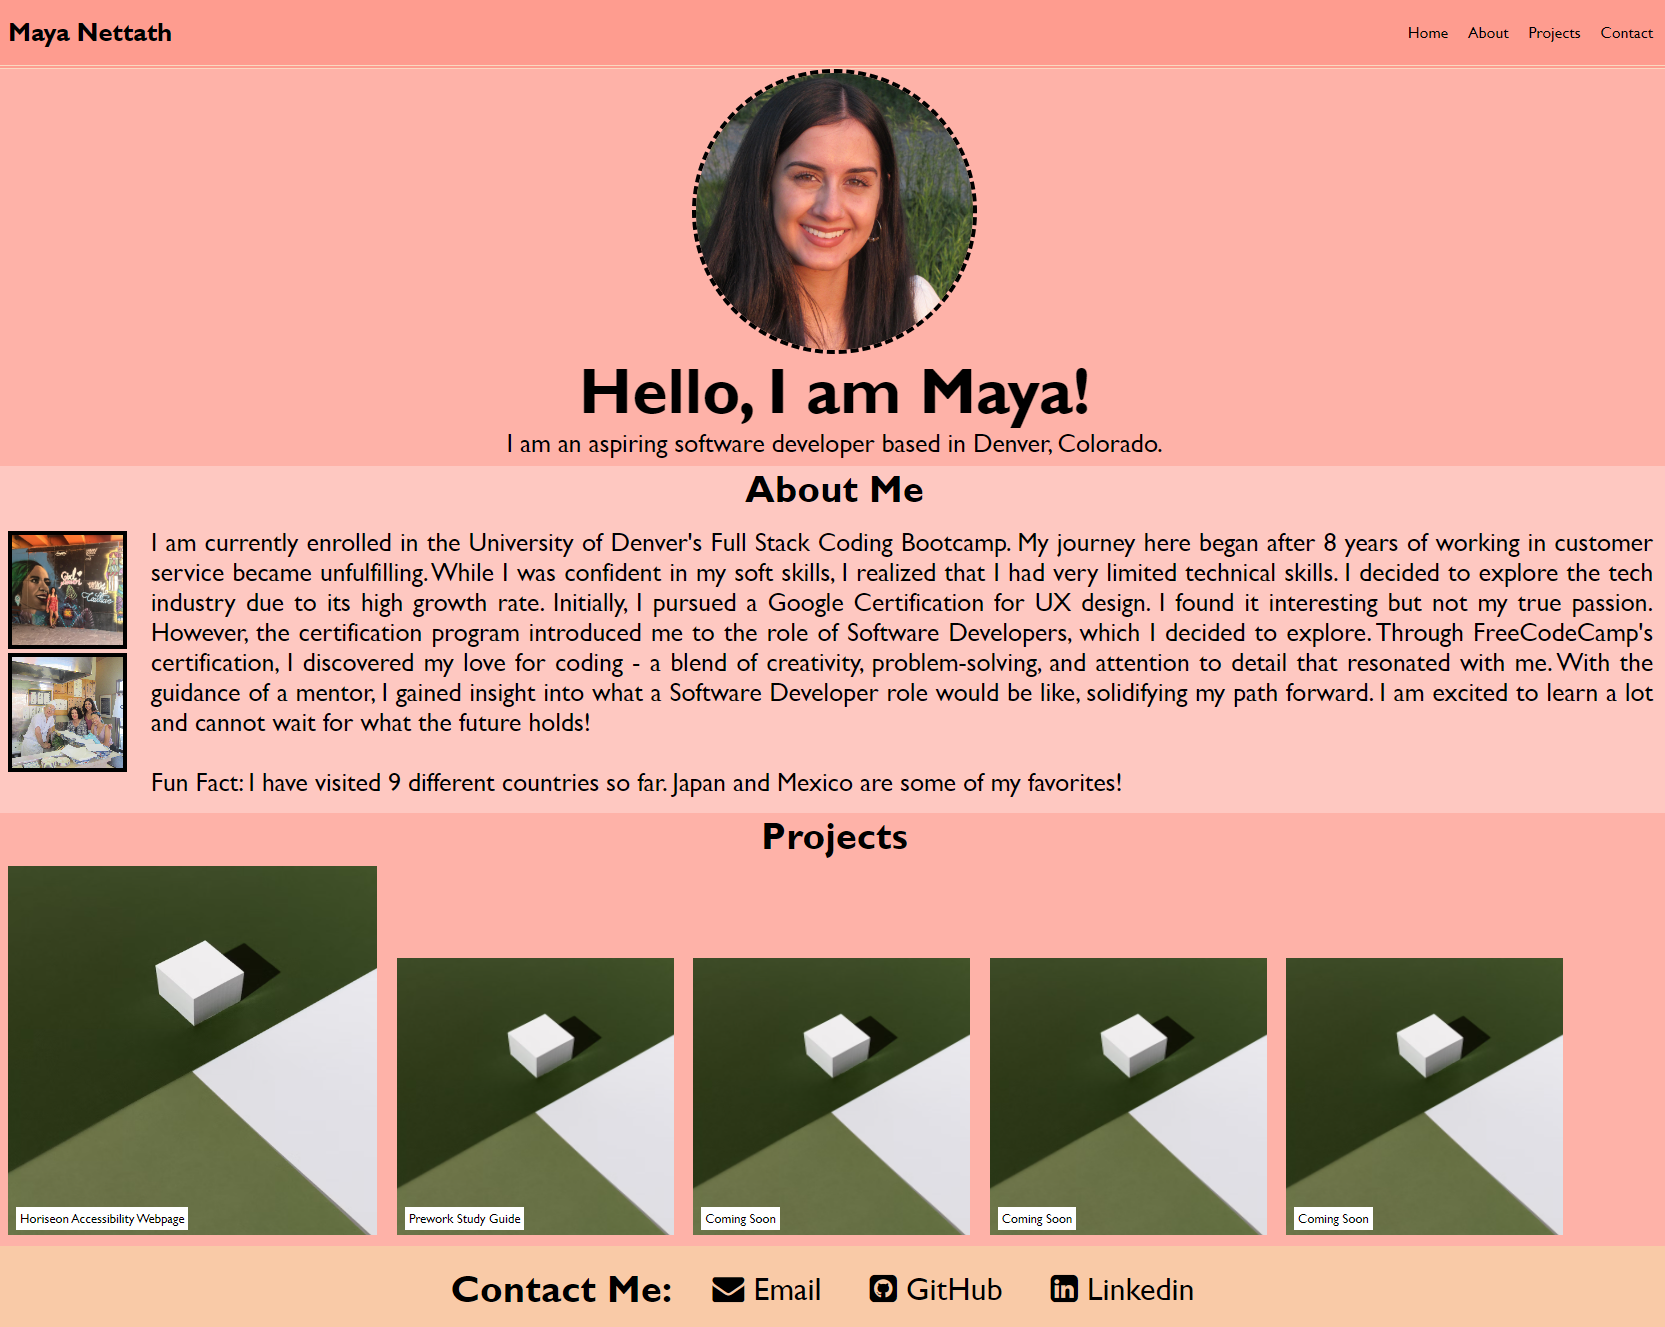
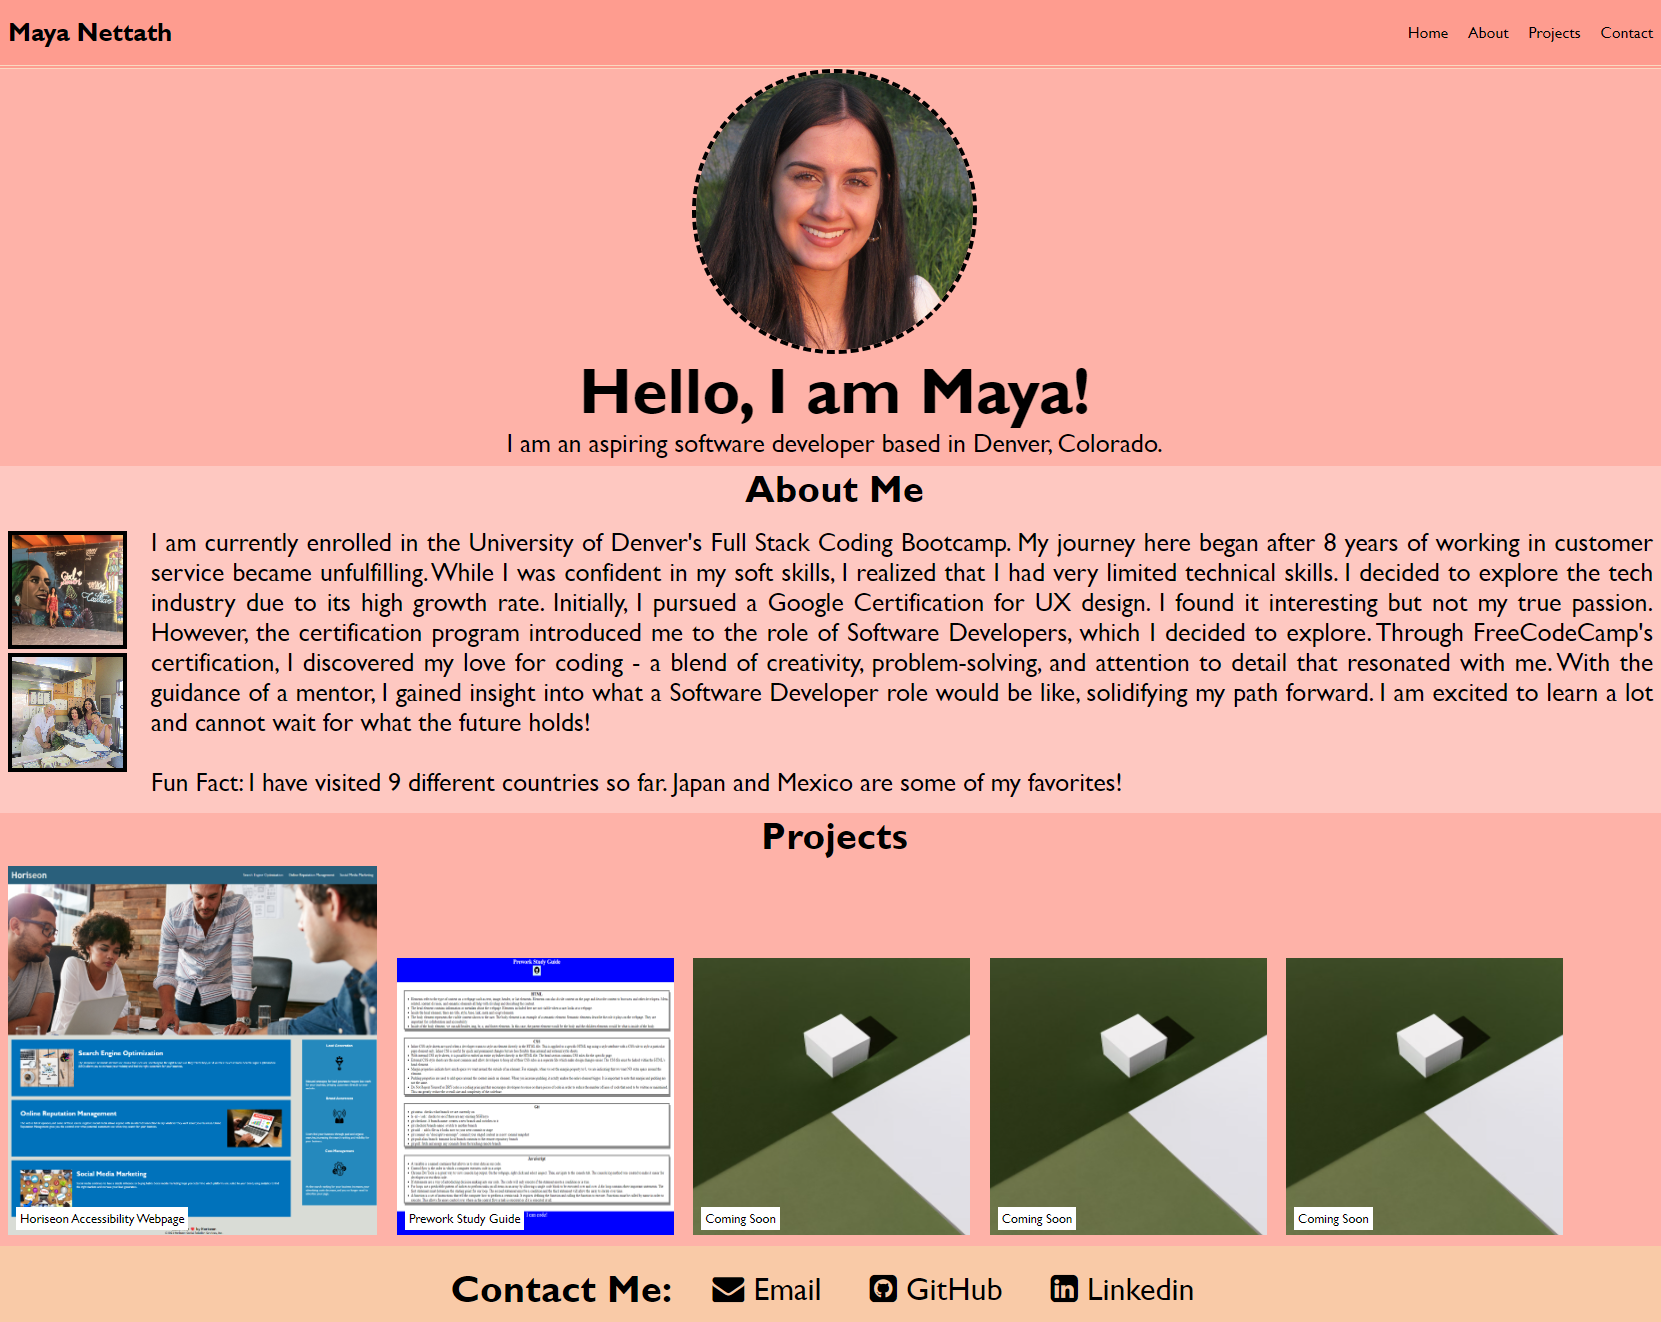
added screenshots of projects and updated screenshot on readme.md

diff --git a/index.html b/index.html
@@ -41,13 +41,13 @@
         <h2 class="center">Projects</h2>
         <div class="image-container">
           <a href="https://mnettath.github.io/horiseon-accessibility-webpage" target=_blank>
-            <img src="https://images.unsplash.com/photo-1616197151166-93dc9b4528d8?ixlib=rb-4.0.3&ixid=M3wxMjA3fDB8MHxwaG90by1wYWdlfHx8fGVufDB8fHx8fA%3D%3D&auto=format&fit=crop&w=928&q=80" class="project-image" id="large-image"/>
+            <img src="./assets/images/Horiseon.png" class="project-image" id="large-image"/>
             <div class="image-text">Horiseon Accessibility Webpage</div>
           </a>
         </div>
         <div class="image-container">
           <a href="https://mnettath.github.io/prework-study-guide/" target="_blank">
-            <img src="https://images.unsplash.com/photo-1616197151166-93dc9b4528d8?ixlib=rb-4.0.3&ixid=M3wxMjA3fDB8MHxwaG90by1wYWdlfHx8fGVufDB8fHx8fA%3D%3D&auto=format&fit=crop&w=928&q=80" class="project-image">
+            <img src="./assets/images/Prework.png" class="project-image">
             <div class="image-text">Prework Study Guide</div>
           </a>
         </div>
